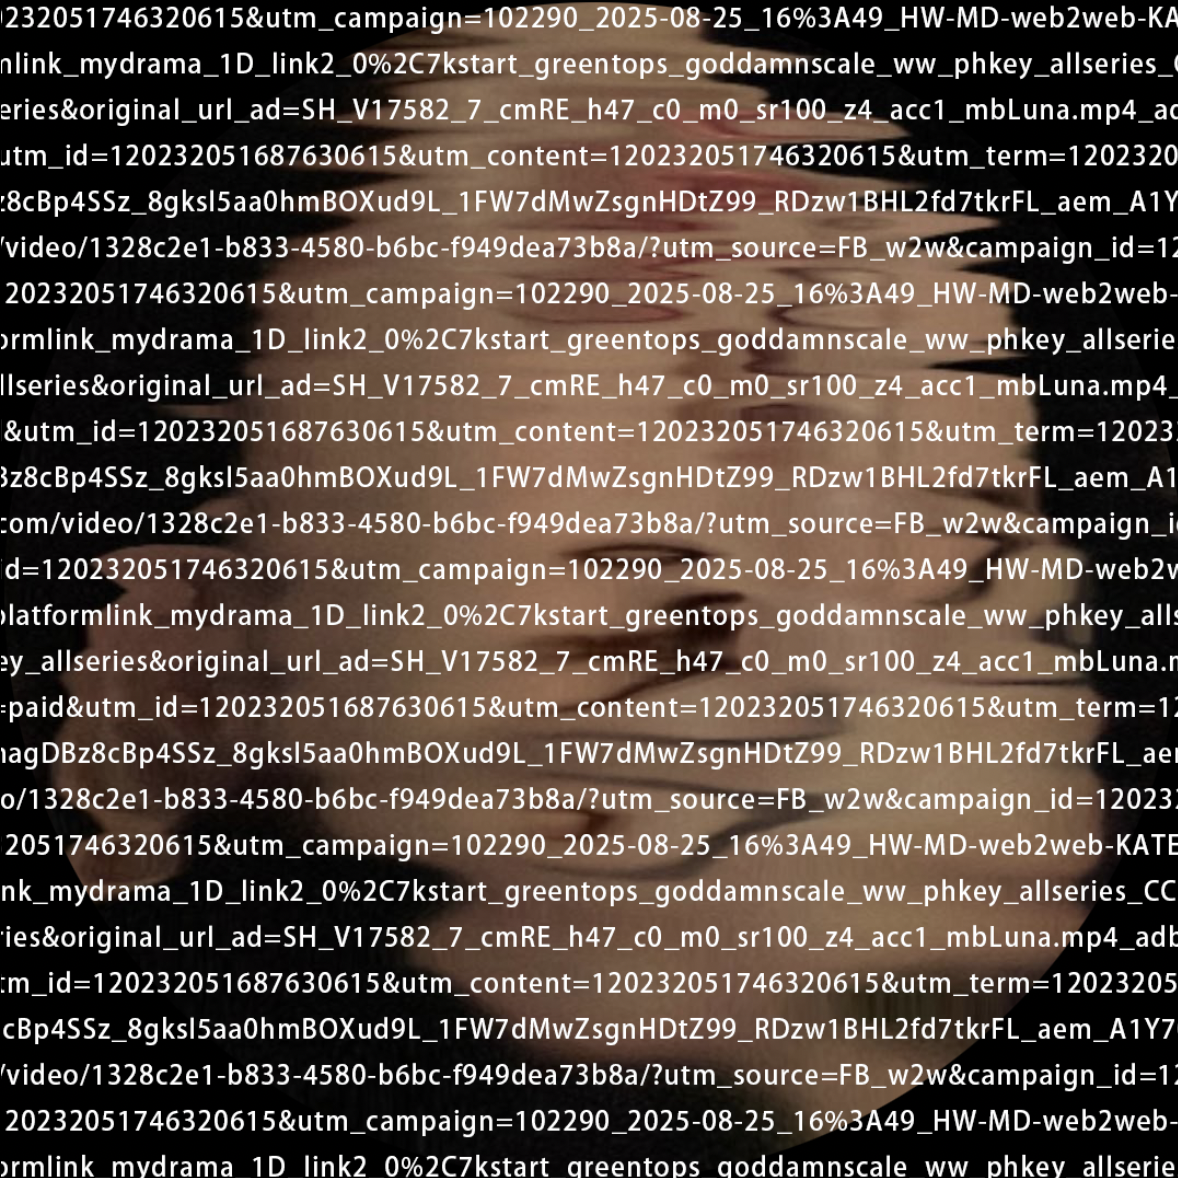
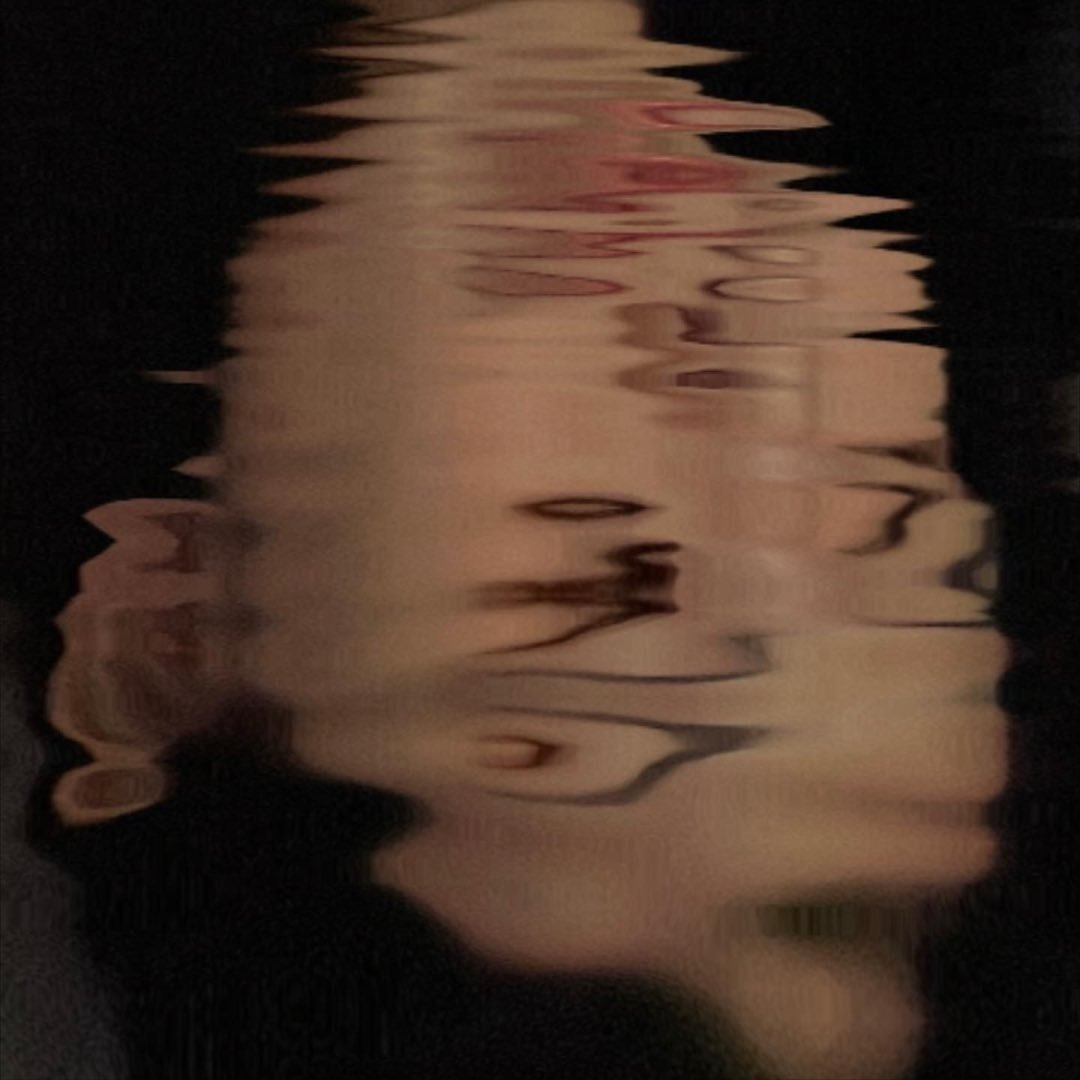
image change

Changed region(s): [[0.0, 0.0, 1.0, 1.0]]

diff --git a/index.html b/index.html
@@ -279,7 +279,7 @@ function addFloat(container,src,cls=''){
 }
 
 
-const ABox=$('.A'); const baseSelfie=addFloat(ABox,'images/2.jpg','fit');
+const ABox=$('.A'); const baseSelfie=addFloat(ABox,'images/222.jpg','fit');
 [['.B','images/23.jpg'],
 ['.C','images/296.jpg'],
 ['.D','images/36.jpg'],
@@ -326,7 +326,7 @@ function selfieCopyDistributed(total=16, biasToA=0.6){
                       top:${(y*100).toFixed(2)}%;
                       --rot:0deg;
                       --size:${sizePx}px">
-         <img src="images/2.jpg" alt="self clone">
+         <img src="images/222.jpg" alt="self clone">
        </figure>`
     );
 
